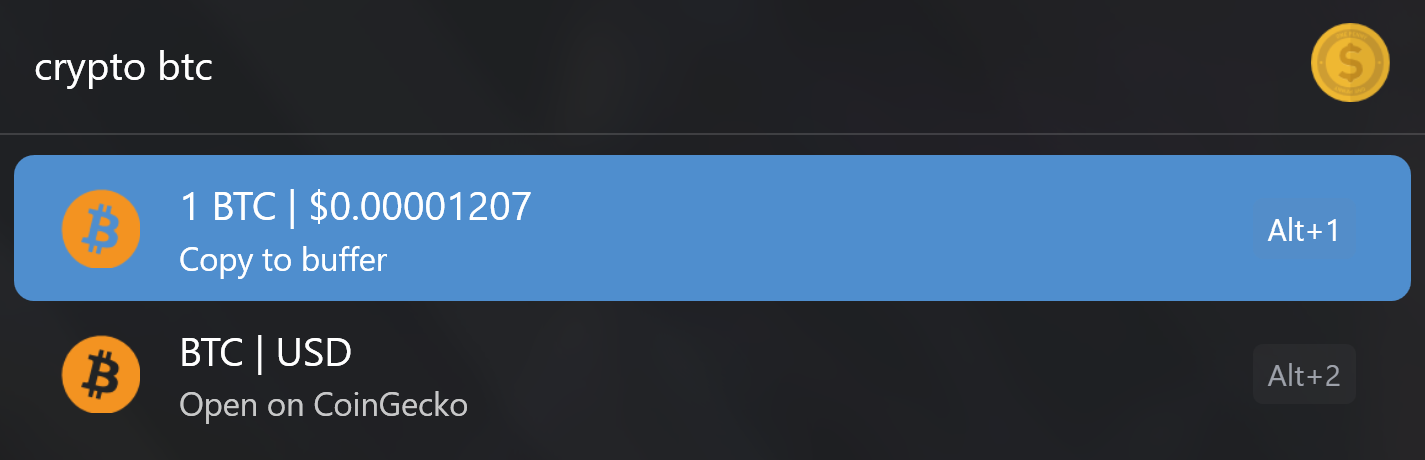
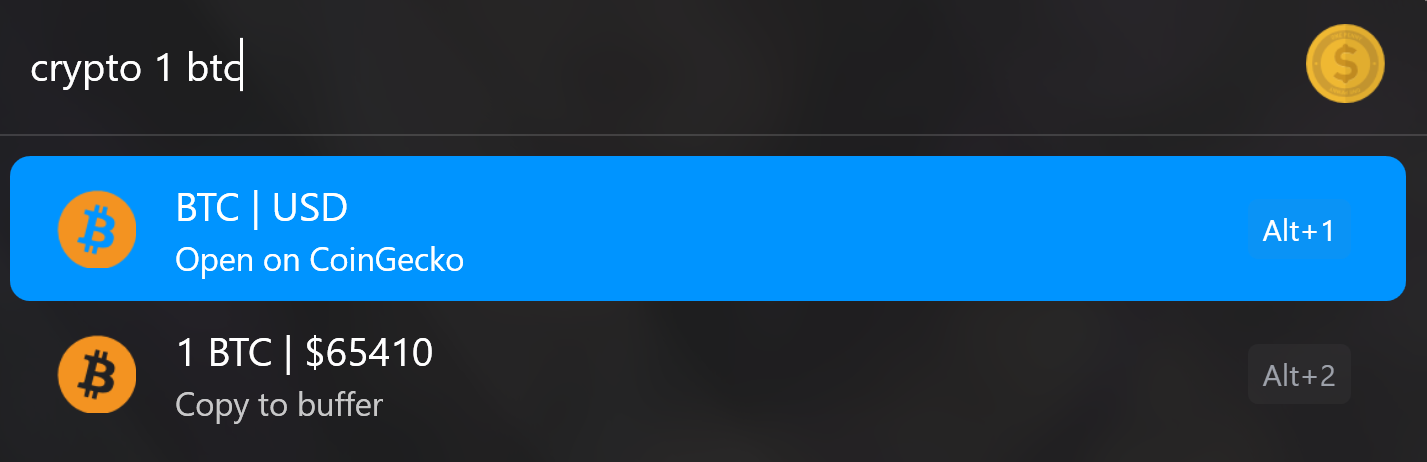
Fixed ticker collision problem

diff --git a/src/index.js b/src/index.js
@@ -5,13 +5,26 @@ import { Flow } from "flow-launcher-helper";
 import { getResult, processData, copy } from "./helpers.js";
 import { config, answer } from "./config.js";
 
-const { on, showResult, run } = new Flow("..\\icons\\app.svg");
-
-// Master list cached locally to prevent 429 Rate Limit errors
+const { on, showResult, run } = new Flow("..\\icons\\app.png");
 const COIN_LIST_FILE = "coin_list.json";
+
+// The VIP override list to prevent meme coins from stealing major tickers
+const majorCoins = {
+    'btc': 'bitcoin',
+    'eth': 'ethereum',
+    'usdt': 'tether',
+    'bnb': 'binancecoin',
+    'sol': 'solana',
+    'xrp': 'ripple',
+    'usdc': 'usd-coin',
+    'ada': 'cardano',
+    'doge': 'dogecoin',
+    'xmr': 'monero'
+};
 
 on("query", async (params) => {
   const [count, query] = processData(params[0] || "");
+  const lowerQuery = query.toLowerCase();
 
   if (query.length <= 1) return showResult(answer.wait);
 
@@ -19,19 +32,31 @@ on("query", async (params) => {
     let coinList = [];
 
     if (fs.existsSync(COIN_LIST_FILE)) {
-      const fileData = fs.readFileSync(COIN_LIST_FILE, "utf-8");
-      coinList = JSON.parse(fileData);
+      coinList = JSON.parse(fs.readFileSync(COIN_LIST_FILE, "utf-8"));
     } else {
       const listRes = await axios.get(`${config.apiBase}coins/list`);
       coinList = listRes.data;
       fs.writeFileSync(COIN_LIST_FILE, JSON.stringify(coinList));
     }
 
-    const exactMatch = coinList.find(
-      (c) => c.symbol.toLowerCase() === query.toLowerCase() || 
-             c.id.toLowerCase() === query.toLowerCase()
-    );
+    let exactMatch = null;
 
+    // 1. Smart Match: Check our major coins override list first
+    if (majorCoins[lowerQuery]) {
+       exactMatch = coinList.find(c => c.id === majorCoins[lowerQuery]);
+    }
+
+    // 2. If not a major coin, search by exact CoinGecko ID (e.g. typing "bitcoin")
+    if (!exactMatch) {
+        exactMatch = coinList.find(c => c.id.toLowerCase() === lowerQuery);
+    }
+
+    // 3. Fallback: Search by symbol and take the first result
+    if (!exactMatch) {
+        exactMatch = coinList.find(c => c.symbol.toLowerCase() === lowerQuery);
+    }
+
+    // If still nothing, keep waiting
     if (!exactMatch) return showResult(answer.wait);
 
     const priceRes = await axios.get(
@@ -52,7 +77,7 @@ on("query", async (params) => {
       return showResult({
           title: "Rate Limit Reached",
           subtitle: "You typed too fast! Please wait 60 seconds.",
-          iconPath: `${config.iconsPath}ratelimit.svg`
+          iconPath: `${config.iconsPath}error.png`
       });
     }
     return showResult(answer.error(err));
